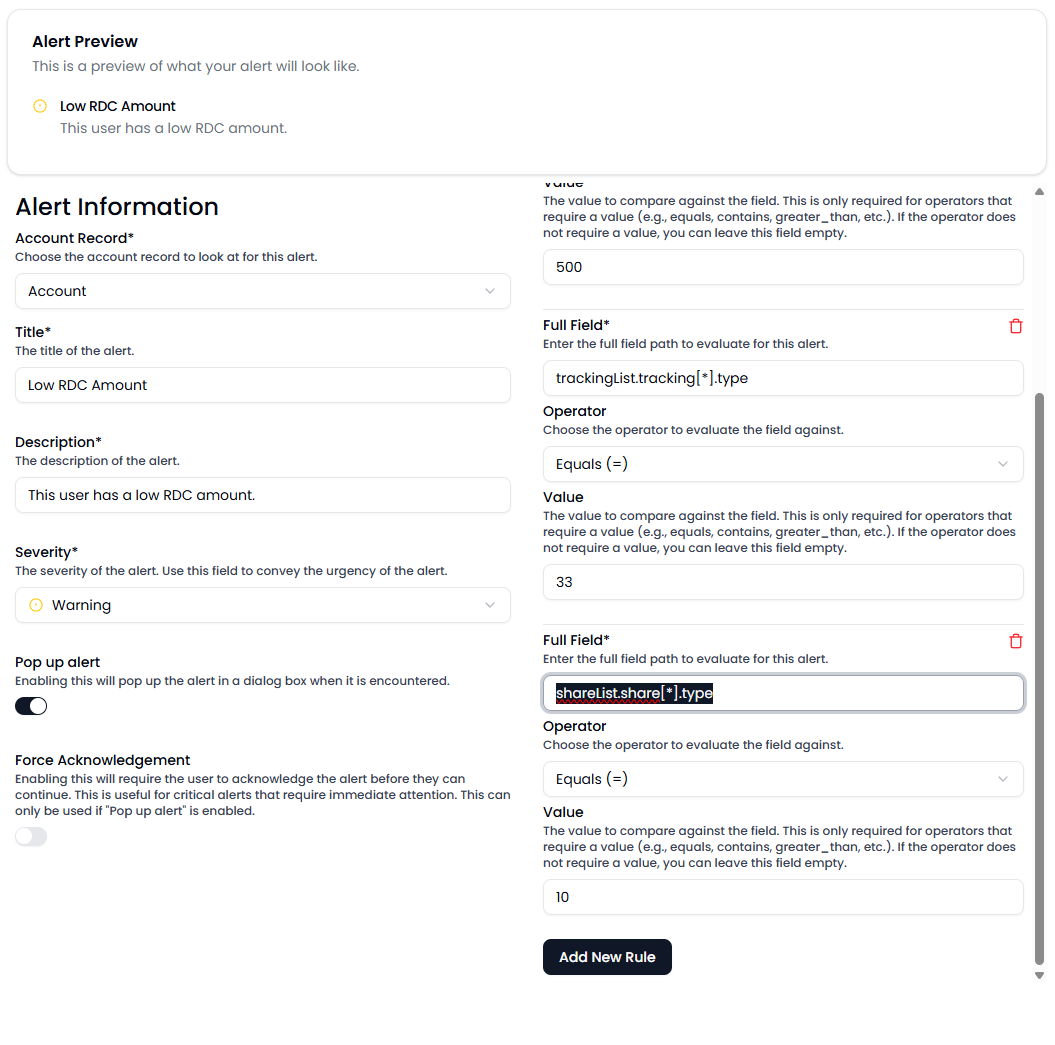
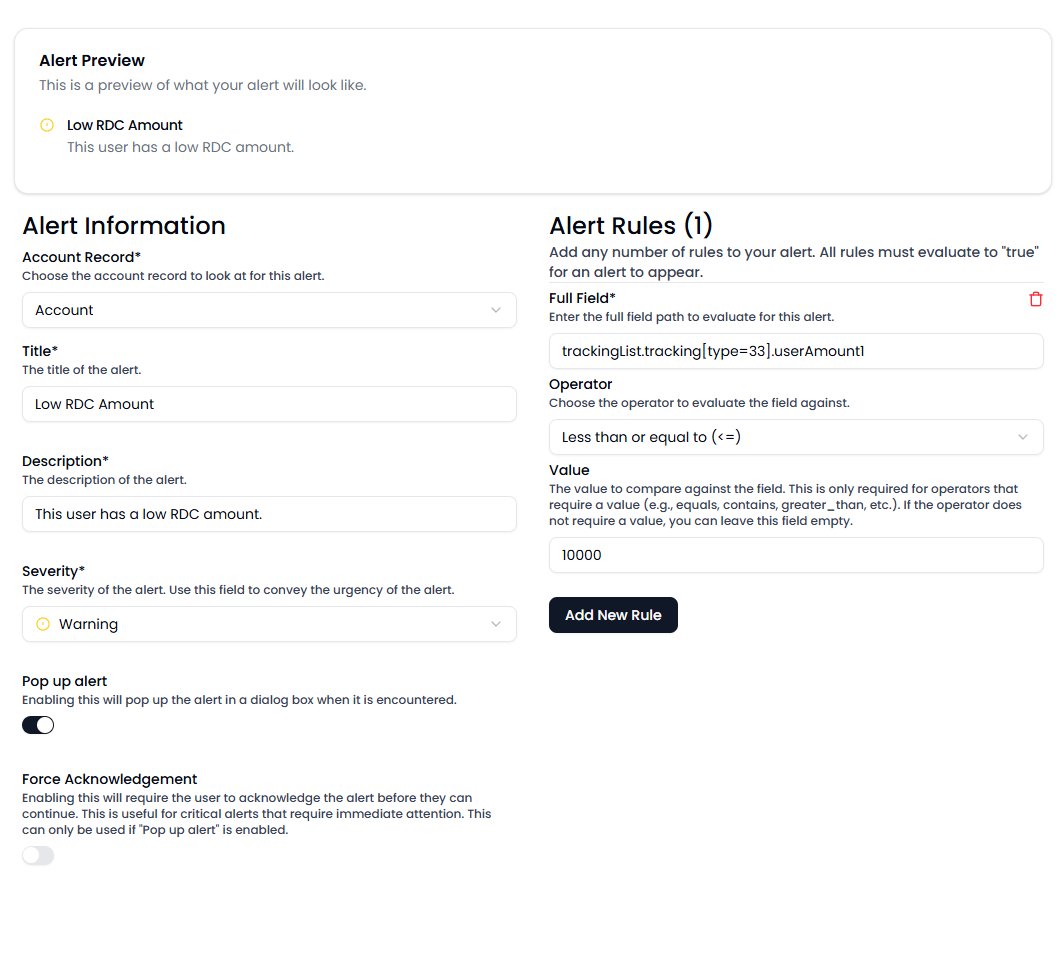
Update alert creation documentation with improved field descriptions and clarifications

diff --git a/mrm/alerts/creating-an-alert.md b/mrm/alerts/creating-an-alert.md
@@ -34,14 +34,15 @@ The "field" option can be any item within a record, this includes items like war
 
 #### Account
 
-| Field mnemonic        | Field value                           | Operator                 | Value      | Notes                                                                                    |
-| --------------------- | ------------------------------------- | ------------------------ | ---------- | ---------------------------------------------------------------------------------------- |
-| AFROZENCODE           | frozenCode                            | equals                   | 0          | If the account's frozen code value is "0", this will equate to true.                     |
-| WARNING:20            | warningCode[*].warningCode            | contains                 | 5          | If the account record warnings list has a warning code of "5", this will equate to true. |
-| AOPENDATE             | openDate                              | less_than_or_equal_to    | NOW(-180)  | If the account's open date is <= now - 180 days, this will equate to "true"              |
-| AACTIVITYDATE         | activityDate                          | greater_than_or_equal_to | 2020-01-01 | If the account's activity date is on 01/01/2020, this will equate to true                |
-| TRACKING:TYPE         | trackingList.tracking[*].type         | equals                   | 33         | If the account has a tracking type 33, this will equate to true.                         |
-| TRACKING:USERAMOUNT12 | trackingList.tracking[*].userAmount12 | equals                   | 10000      | If the account account has a tracking userAmount12, this will equate to true.            |
+| Field mnemonic        | Field value                                 | Operator                 | Value      | Notes                                                                                         |
+| --------------------- | ------------------------------------------- | ------------------------ | ---------- | --------------------------------------------------------------------------------------------- |
+| AFROZENCODE           | frozenCode                                  | equals                   | 0          | If the account's frozen code value is "0", this will equate to true.                          |
+| WARNING:20            | warningCode[*].warningCode                  | contains                 | 5          | If the account record warnings list has a warning code of "5", this will equate to true.      |
+| AOPENDATE             | openDate                                    | less_than_or_equal_to    | NOW(-180)  | If the account's open date is <= now - 180 days, this will equate to "true"                   |
+| AACTIVITYDATE         | activityDate                                | greater_than_or_equal_to | 2020-01-01 | If the account's activity date is on 01/01/2020, this will equate to true                     |
+| TRACKING:TYPE         | trackingList.tracking[*].type               | equals                   | 33         | If the account has a tracking type 33, this will equate to true.                              |
+| TRACKING:USERAMOUNT12 | trackingList.tracking[*].userAmount12       | equals                   | 10000      | If the account has ANY tracking with an userAmount12, this will equate to true.               |
+| TRACKING:USERAMOUNT12 | trackingList.tracking[type=33].userAmount12 | equals                   | 10000      | If the account a tracking type 33 with userAmount12 equal to 10000, this will equate to true. |
 
 These rules are very powerful, as they allow you to dig into a record without writing any PowerOn or special code to identify if a condition is true.
 
@@ -49,10 +50,11 @@ Rules can be re-used for flows and other features (coming soon)
 
 Below are some examples of some complex rules
 
-![A complexly defined rule](../../assets/image7.png)
 
 This rule will alert the employee if a tracking 33 is found on the account record (in this credit union's case, this is the RDC tracking record) AND that tracking record userAmount12 is <= 500.00
 
-Just like in a poweron, you can dig deep into the account record from the account. In your account rules, you can add shareList or loanList to your "Full Field" field to bubble deeply nested alerts up to the top.
+Just like in a poweron, you can dig deep into the account record from the account, but not the other way around. In your account rules, you can add shareList or loanList to your "Full Field" field to bubble deeply nested alerts up to the top.
 
 ![alt text](../../assets/image8.png)
+
+The account record can access any child records, while child records cannot access parent records. The account tree cascades downward, never upward.
